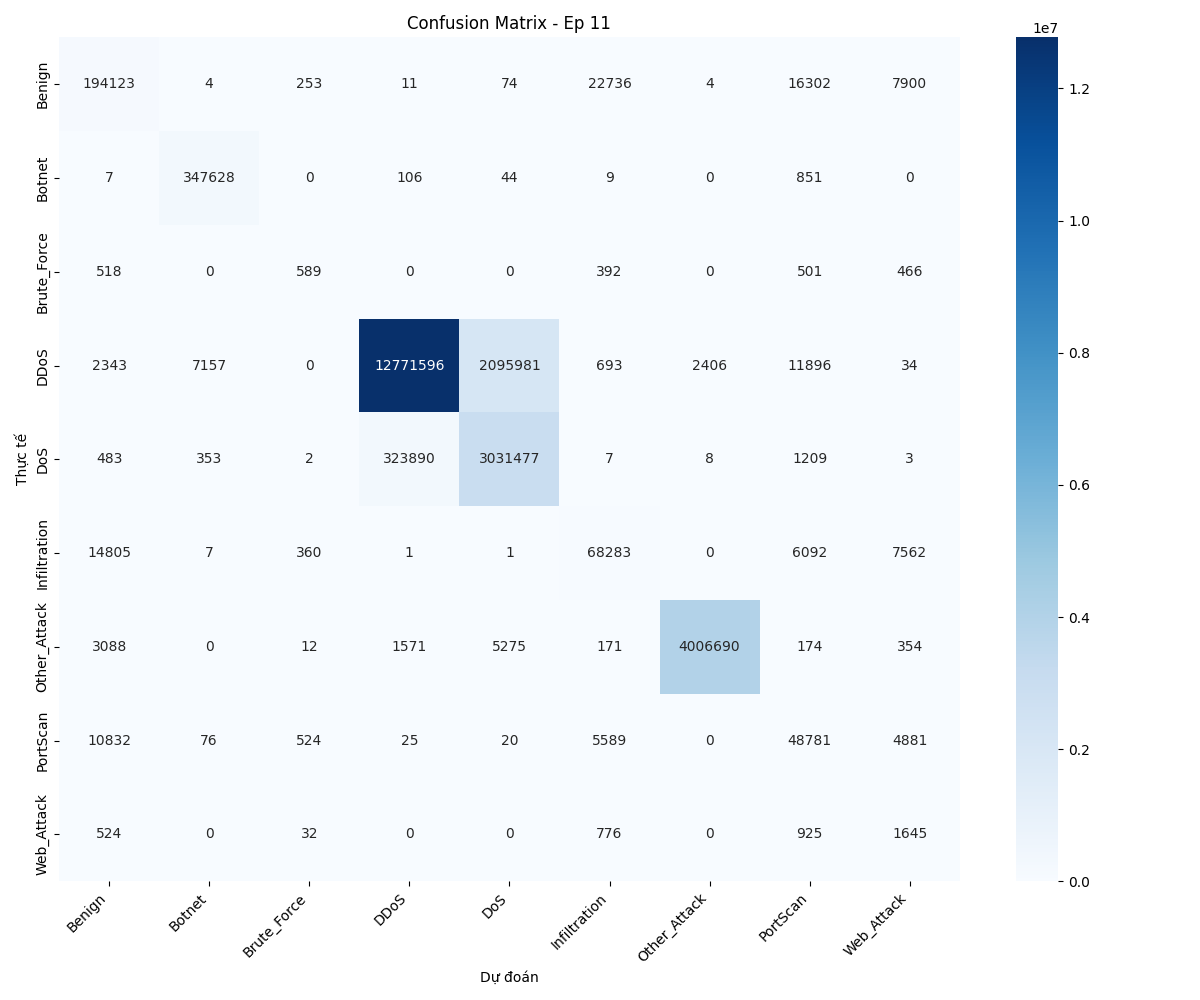
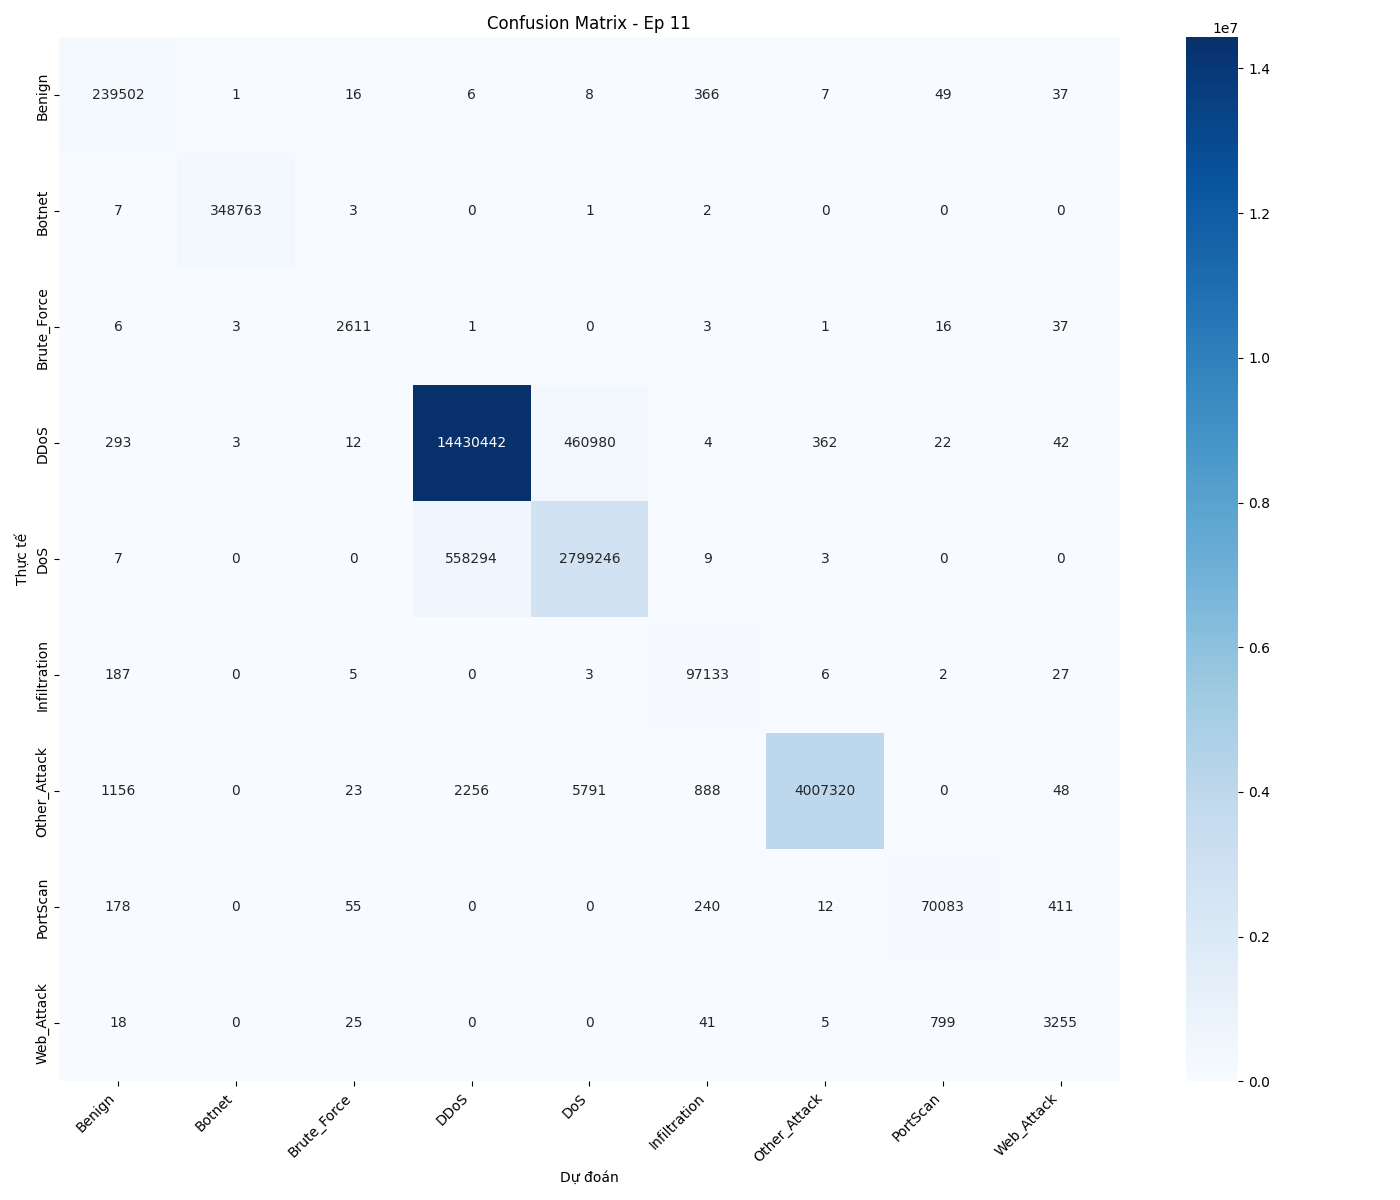
update: phase1 version 3 ket qua epoch 12 tot nhat

diff --git a/src/model/model.py b/src/model/model.py
@@ -10,11 +10,13 @@ class Hybrid_TKAN(nn.Module):
             input_size=input_features,
             hidden_size=lstm_hidden,
             num_layers=1,
-            batch_first=True
+            batch_first=True,
+            bidirectional=True  # <--- Bật chế độ BiLSTM ở đây
         )
         
         self.mlp = nn.Sequential(
-            nn.Linear(lstm_hidden, lstm_hidden),
+            # Thay lstm_hidden thành lstm_hidden * 2 ở tham số đầu tiên
+            nn.Linear(lstm_hidden * 2, lstm_hidden), 
             nn.LayerNorm(lstm_hidden),
             nn.GELU(),
             nn.Linear(lstm_hidden, mlp_hidden),
